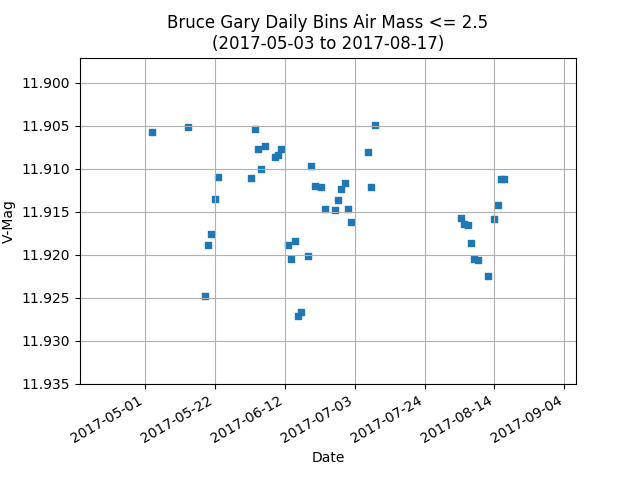
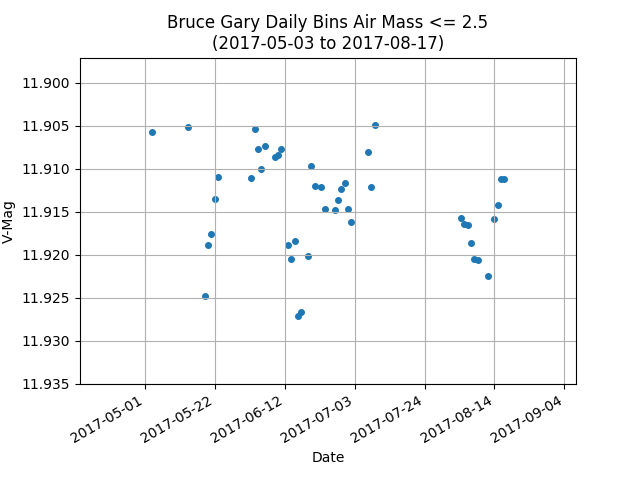
added additional data to daily binned data

diff --git a/combine_data.py b/combine_data.py
@@ -7,6 +7,8 @@ import datetime
 
 def main():
     header = [['MJD','V-mag','SE','air mass']]
+    header2 = [['Avg MJD','Avg V-mag','Avg SE','Avg Air Mass','Observation Count']]
+
     combined = read_all_csvs()
     combined = clean_bad_data(combined)
     combined = sorted(combined,key=getKey)
@@ -19,35 +21,40 @@ def main():
     write_csv(header+combined_good_air,"bruce_gary_raw_data_good_air_combined")
     scatter_plot(combined_good_air,plot_name="scatter_good_air", plot_title="Bruce Gary Raw Data Air Mass <= 2.5",marker_size=1)
     daily_bins = get_daily_binned_data(combined_good_air)
-    write_csv(header+daily_bins,"bruce_gary_raw_data_good_air_daily_bins")
+    write_csv(header2+daily_bins,"bruce_gary_raw_data_good_air_daily_bins")
     scatter_plot(daily_bins,plot_name="scatter_good_air_daily_bins", plot_title="Bruce Gary Daily Bins Air Mass <= 2.5",marker_size=16)
     print(daily_bins)
 
 def get_daily_binned_data(data):
     days = []
-    day_x_sum = []
-    day_y_sum = []
+    day_time_sum = []
+    day_mag_sum = []
+    day_se_sum = []
+    day_airmass_sum = []
     day_counts = []
     for i in range(len(data)):
         x = int(float(data[i][0]))
         if(x not in days):
             days.append(x)
-            day_x_sum.append(0)
-            day_y_sum.append(0)
+            day_time_sum.append(0)
+            day_mag_sum.append(0)
+            day_se_sum.append(0)
+            day_airmass_sum.append(0)
             day_counts.append(0)
         index = days.index(x)
-        day_x_sum[index] += float(data[i][0])
-        day_y_sum[index] += float(data[i][1])
+        day_time_sum[index] += float(data[i][0])
+        day_mag_sum[index] += float(data[i][1])
+        day_se_sum[index] += float(data[i][2])
+        day_airmass_sum[index] += float(data[i][3])
         day_counts[index] += 1
     binned = []
     for i in range(len(days)):
-        x_avg = day_x_sum[i]/day_counts[i]
-        y_avg = day_y_sum[i]/day_counts[i]
-        binned.append([x_avg,y_avg])
+        time_avg = day_time_sum[i]/day_counts[i]
+        mag_avg = day_mag_sum[i]/day_counts[i]
+        se_avg = day_se_sum[i]/day_counts[i]
+        airmass_avg = day_airmass_sum[i]/day_counts[i]
+        binned.append([time_avg,mag_avg,se_avg,airmass_avg,day_counts[i]])
     return binned
-
-
-
 
 def filter_by_air_mass(data):
     filtered = []
@@ -72,7 +79,7 @@ def scatter_plot(combined, plot_name, plot_title, marker_size):
     plt.gca().invert_yaxis()
     plt.gcf().autofmt_xdate()
     plt.grid()
-    plt.scatter(x,y,s=marker_size,marker='s')
+    plt.scatter(x,y,s=marker_size,marker='o')
     plt.savefig("SavedPlots/" + plot_name + ".png")
     plt.show()
 
